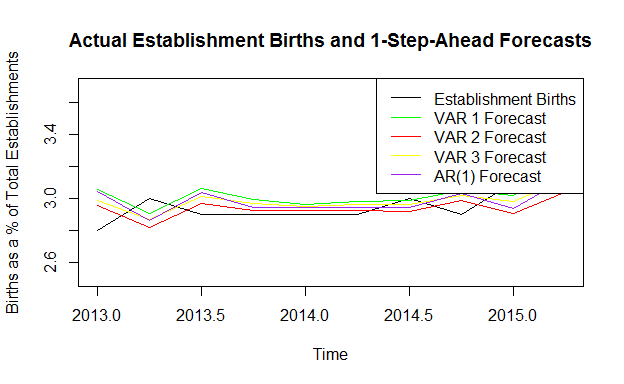
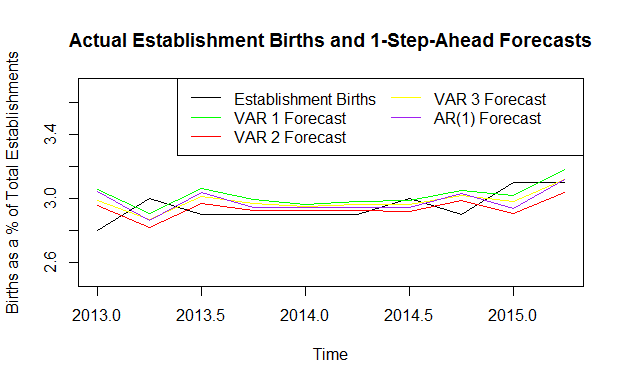
Add files via upload

diff --git a/new_firm_growth.md b/new_firm_growth.md
@@ -158,7 +158,7 @@ It can be helpful to observe a plot of the time series which will make up the VA
 ```r
 #Plot variables
 layout(1)
-plot(var_3,type="l",col="blue",main="Establishment Birth, Consumer Sentiment Index, and 10-Year Treasury")
+plot(var_3,type="l",col="blue",main="Establishment Birth, CSI, and 10-Year Treasury")
 ```
 
 ![](new_firm_growth_files/figure-html/unnamed-chunk-7-1.png)<!-- -->
@@ -620,7 +620,7 @@ lines(pred_var_2_ts[,1],col="red")
 lines(pred_var_3_ts[,1],col="yellow")
 lines(pred_ar_ts[,1],col="purple")
 abline(h=0)
-legend(x="topright",c("Establishment Births","VAR 1 Forecast","VAR 2 Forecast", "VAR 3 Forecast","AR(1) Forecast"),
+legend(x="topright",c("Establishment Births","VAR 1 Forecast","VAR 2 Forecast", "VAR 3 Forecast","AR(1) Forecast"), ncol = 2,
        col=c("black","green","red", "yellow","purple"),lty=1,lwd=.5)
 title(main = "Actual Establishment Births and 1-Step-Ahead Forecasts")
 ```
@@ -635,7 +635,7 @@ lines(pred_var_2_ts[,4],col="red")
 lines(pred_var_3_ts[,4],col="yellow")
 lines(pred_ar_ts[,4],col="purple")
 abline(h=0)
-legend(x="topright",c("Establishment Births","VAR 1 Forecast","VAR 2 Forecast", "VAR 3 Forecast","AR(1) Forecast"),
+legend(x="topright",c("Establishment Births","VAR 1 Forecast","VAR 2 Forecast", "VAR 3 Forecast","AR(1) Forecast"), ncol = 2,
        col=c("black","green","red", "yellow","purple"),lty=1,lwd=.8)
 title(main = "Actual Establishment Births and 4-Step-Ahead Forecasts")
 ```
